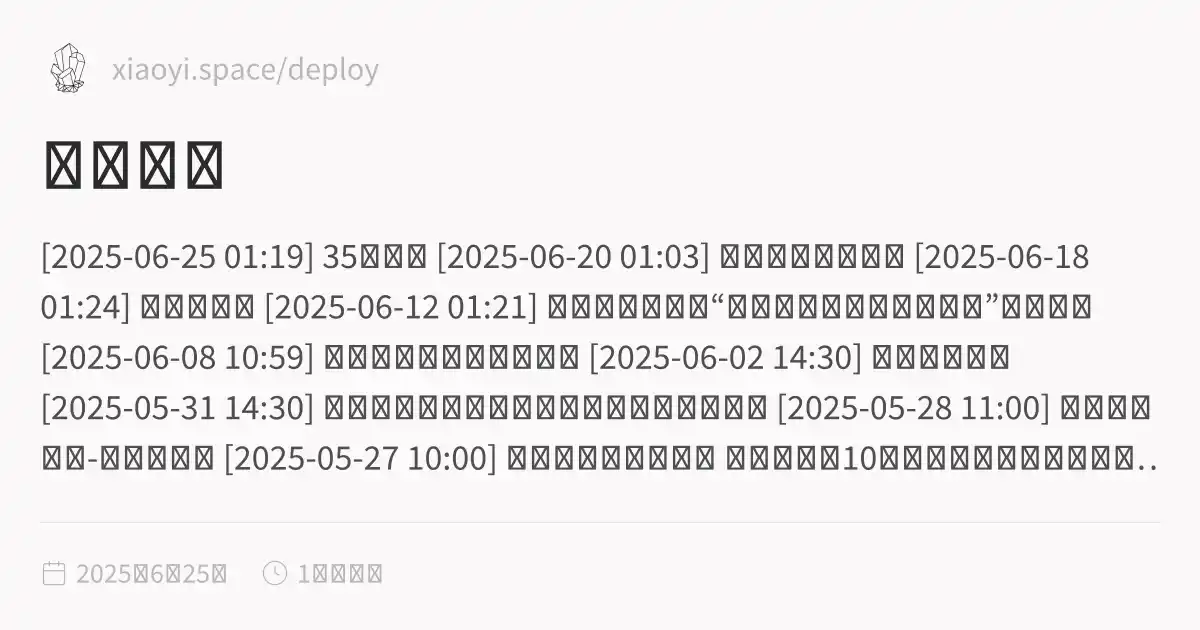
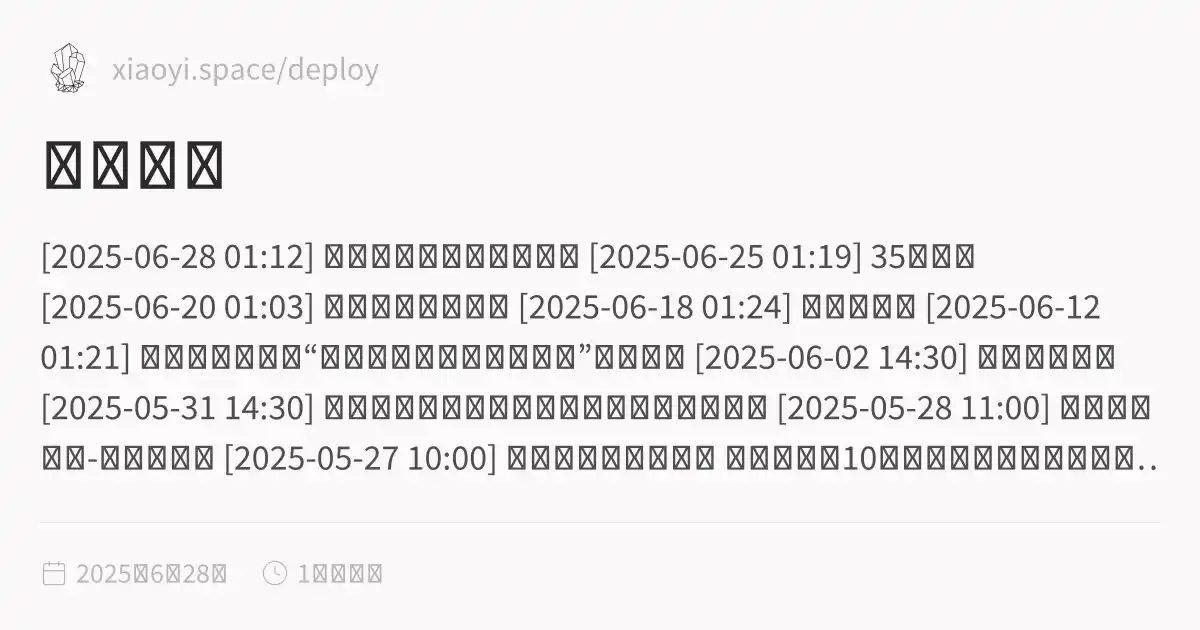
feature:update notes

Changed region(s): [[0.0308, 0.3619, 0.925, 0.5127], [0.0308, 0.5429, 0.925, 0.6032], [0.1542, 0.3921, 0.185, 0.4222]]

diff --git a/deploy/最近更新.html b/deploy/最近更新.html
@@ -1,5 +1,5 @@
 <!DOCTYPE html>
-<html lang="zh"><head><title>最近更新</title><meta charset="utf-8"/><link rel="preconnect" href="https://fonts.googleapis.com"/><link rel="preconnect" href="https://fonts.gstatic.com"/><link rel="stylesheet" href="https://fonts.googleapis.com/css2?family=Schibsted Grotesk:wght@400;700&amp;family=Source Sans Pro:ital,wght@0,400;0,600;1,400;1,600&amp;family=IBM Plex Mono:wght@400;600&amp;display=swap"/><link rel="preconnect" href="https://cdnjs.cloudflare.com" crossorigin="anonymous"/><meta name="viewport" content="width=device-width, initial-scale=1.0"/><meta name="og:site_name" content="xiaoyi.space"/><meta property="og:title" content="最近更新"/><meta property="og:type" content="website"/><meta name="twitter:card" content="summary_large_image"/><meta name="twitter:title" content="最近更新"/><meta name="twitter:description" content="[2025-06-25 01:19] 35岁来了 [2025-06-20 01:03] 一顿清淡工作晚餐 [2025-06-18 01:24] 想做一只猫 [2025-06-12 01:21] 你对现在流行的“女儿是父亲上辈子的情人”怎么看？ [2025-06-08 10:59] 骑摩托车是不是很不安全 [2025-06-02 14:30] 一个工作感悟 [2025-05-31 14:30] 摩托车安全驾驶需要具备的能力有些什么？ [2025-05-28 11:00] 摩托车旅行记-惠州观音山 [2025-05-27 10:00] 为什么搭建这个博客 只显示最近10条笔记，更多请查看目录。 ..."/><meta property="og:description" content="[2025-06-25 01:19] 35岁来了 [2025-06-20 01:03] 一顿清淡工作晚餐 [2025-06-18 01:24] 想做一只猫 [2025-06-12 01:21] 你对现在流行的“女儿是父亲上辈子的情人”怎么看？ [2025-06-08 10:59] 骑摩托车是不是很不安全 [2025-06-02 14:30] 一个工作感悟 [2025-05-31 14:30] 摩托车安全驾驶需要具备的能力有些什么？ [2025-05-28 11:00] 摩托车旅行记-惠州观音山 [2025-05-27 10:00] 为什么搭建这个博客 只显示最近10条笔记，更多请查看目录。 ..."/><meta property="og:image:alt" content="[2025-06-25 01:19] 35岁来了 [2025-06-20 01:03] 一顿清淡工作晚餐 [2025-06-18 01:24] 想做一只猫 [2025-06-12 01:21] 你对现在流行的“女儿是父亲上辈子的情人”怎么看？ [2025-06-08 10:59] 骑摩托车是不是很不安全 [2025-06-02 14:30] 一个工作感悟 [2025-05-31 14:30] 摩托车安全驾驶需要具备的能力有些什么？ [2025-05-28 11:00] 摩托车旅行记-惠州观音山 [2025-05-27 10:00] 为什么搭建这个博客 只显示最近10条笔记，更多请查看目录。 ..."/><meta property="twitter:domain" content="xiaoyi.space/deploy"/><meta property="og:url" content="https://xiaoyi.space/deploy/最近更新"/><meta property="twitter:url" content="https://xiaoyi.space/deploy/最近更新"/><link rel="icon" href="./static/icon.png"/><meta name="description" content="[2025-06-25 01:19] 35岁来了 [2025-06-20 01:03] 一顿清淡工作晚餐 [2025-06-18 01:24] 想做一只猫 [2025-06-12 01:21] 你对现在流行的“女儿是父亲上辈子的情人”怎么看？ [2025-06-08 10:59] 骑摩托车是不是很不安全 [2025-06-02 14:30] 一个工作感悟 [2025-05-31 14:30] 摩托车安全驾驶需要具备的能力有些什么？ [2025-05-28 11:00] 摩托车旅行记-惠州观音山 [2025-05-27 10:00] 为什么搭建这个博客 只显示最近10条笔记，更多请查看目录。 ..."/><meta name="generator" content="Quartz"/><link href="./index.css" rel="stylesheet" type="text/css" spa-preserve/><style>.expand-button {
+<html lang="zh"><head><title>最近更新</title><meta charset="utf-8"/><link rel="preconnect" href="https://fonts.googleapis.com"/><link rel="preconnect" href="https://fonts.gstatic.com"/><link rel="stylesheet" href="https://fonts.googleapis.com/css2?family=Schibsted Grotesk:wght@400;700&amp;family=Source Sans Pro:ital,wght@0,400;0,600;1,400;1,600&amp;family=IBM Plex Mono:wght@400;600&amp;display=swap"/><link rel="preconnect" href="https://cdnjs.cloudflare.com" crossorigin="anonymous"/><meta name="viewport" content="width=device-width, initial-scale=1.0"/><meta name="og:site_name" content="xiaoyi.space"/><meta property="og:title" content="最近更新"/><meta property="og:type" content="website"/><meta name="twitter:card" content="summary_large_image"/><meta name="twitter:title" content="最近更新"/><meta name="twitter:description" content="[2025-06-28 01:12] 骑摩托车是不是很不安全 [2025-06-25 01:19] 35岁来了 [2025-06-20 01:03] 一顿清淡工作晚餐 [2025-06-18 01:24] 想做一只猫 [2025-06-12 01:21] 你对现在流行的“女儿是父亲上辈子的情人”怎么看？ [2025-06-02 14:30] 一个工作感悟 [2025-05-31 14:30] 摩托车安全驾驶需要具备的能力有些什么？ [2025-05-28 11:00] 摩托车旅行记-惠州观音山 [2025-05-27 10:00] 为什么搭建这个博客 只显示最近10条笔记，更多请查看目录。 ..."/><meta property="og:description" content="[2025-06-28 01:12] 骑摩托车是不是很不安全 [2025-06-25 01:19] 35岁来了 [2025-06-20 01:03] 一顿清淡工作晚餐 [2025-06-18 01:24] 想做一只猫 [2025-06-12 01:21] 你对现在流行的“女儿是父亲上辈子的情人”怎么看？ [2025-06-02 14:30] 一个工作感悟 [2025-05-31 14:30] 摩托车安全驾驶需要具备的能力有些什么？ [2025-05-28 11:00] 摩托车旅行记-惠州观音山 [2025-05-27 10:00] 为什么搭建这个博客 只显示最近10条笔记，更多请查看目录。 ..."/><meta property="og:image:alt" content="[2025-06-28 01:12] 骑摩托车是不是很不安全 [2025-06-25 01:19] 35岁来了 [2025-06-20 01:03] 一顿清淡工作晚餐 [2025-06-18 01:24] 想做一只猫 [2025-06-12 01:21] 你对现在流行的“女儿是父亲上辈子的情人”怎么看？ [2025-06-02 14:30] 一个工作感悟 [2025-05-31 14:30] 摩托车安全驾驶需要具备的能力有些什么？ [2025-05-28 11:00] 摩托车旅行记-惠州观音山 [2025-05-27 10:00] 为什么搭建这个博客 只显示最近10条笔记，更多请查看目录。 ..."/><meta property="twitter:domain" content="xiaoyi.space/deploy"/><meta property="og:url" content="https://xiaoyi.space/deploy/最近更新"/><meta property="twitter:url" content="https://xiaoyi.space/deploy/最近更新"/><link rel="icon" href="./static/icon.png"/><meta name="description" content="[2025-06-28 01:12] 骑摩托车是不是很不安全 [2025-06-25 01:19] 35岁来了 [2025-06-20 01:03] 一顿清淡工作晚餐 [2025-06-18 01:24] 想做一只猫 [2025-06-12 01:21] 你对现在流行的“女儿是父亲上辈子的情人”怎么看？ [2025-06-02 14:30] 一个工作感悟 [2025-05-31 14:30] 摩托车安全驾驶需要具备的能力有些什么？ [2025-05-28 11:00] 摩托车旅行记-惠州观音山 [2025-05-27 10:00] 为什么搭建这个博客 只显示最近10条笔记，更多请查看目录。 ..."/><meta name="generator" content="Quartz"/><link href="./index.css" rel="stylesheet" type="text/css" spa-preserve/><style>.expand-button {
   position: absolute;
   display: flex;
   float: right;
@@ -116,12 +116,12 @@ pre:hover > .expand-button {
   padding: 0 12px;
   font-size: 14px;
 }
[2 lines of base64/hex data omitted]
+<li><strong>[2025-06-28 01:12]</strong> <a href="./骑摩托车是不是很不安全" class="internal alias" data-slug="骑摩托车是不是很不安全">骑摩托车是不是很不安全</a></li>
 <li><strong>[2025-06-25 01:19]</strong> <a href="./35岁来了" class="internal alias" data-slug="35岁来了">35岁来了</a></li>
 <li><strong>[2025-06-20 01:03]</strong> <a href="./一顿清淡工作晚餐" class="internal alias" data-slug="一顿清淡工作晚餐">一顿清淡工作晚餐</a></li>
 <li><strong>[2025-06-18 01:24]</strong> <a href="./想做一只猫" class="internal alias" data-slug="想做一只猫">想做一只猫</a></li>
 <li><strong>[2025-06-12 01:21]</strong> <a href="./你对现在流行的“女儿是父亲上辈子的情人”怎么看？" class="internal alias" data-slug="你对现在流行的“女儿是父亲上辈子的情人”怎么看？">你对现在流行的“女儿是父亲上辈子的情人”怎么看？</a></li>
-<li><strong>[2025-06-08 10:59]</strong> <a href="./骑摩托车是不是很不安全" class="internal alias" data-slug="骑摩托车是不是很不安全">骑摩托车是不是很不安全</a></li>
 <li><strong>[2025-06-02 14:30]</strong> <a href="./一个工作感悟" class="internal alias" data-slug="一个工作感悟">一个工作感悟</a></li>
 <li><strong>[2025-05-31 14:30]</strong> <a href="./摩托车安全驾驶需要具备的能力有些什么？" class="internal alias" data-slug="摩托车安全驾驶需要具备的能力有些什么？">摩托车安全驾驶需要具备的能力有些什么？</a></li>
 <li><strong>[2025-05-28 11:00]</strong> <a href="./摩托车旅行记-惠州观音山" class="internal alias" data-slug="摩托车旅行记-惠州观音山">摩托车旅行记-惠州观音山</a></li>

diff --git a/deploy/index.html b/deploy/index.html
@@ -117,11 +117,11 @@ pre:hover > .expand-button {
   font-size: 14px;
 }
[1 lines of base64/hex data omitted]
+<li><strong>[2025-06-28 01:12]</strong> <a href="./最近更新/.././骑摩托车是不是很不安全" class="internal alias" data-slug="骑摩托车是不是很不安全">骑摩托车是不是很不安全</a></li>
 <li><strong>[2025-06-25 01:19]</strong> <a href="./最近更新/.././35岁来了" class="internal alias" data-slug="35岁来了">35岁来了</a></li>
 <li><strong>[2025-06-20 01:03]</strong> <a href="./最近更新/.././一顿清淡工作晚餐" class="internal alias" data-slug="一顿清淡工作晚餐">一顿清淡工作晚餐</a></li>
 <li><strong>[2025-06-18 01:24]</strong> <a href="./最近更新/.././想做一只猫" class="internal alias" data-slug="想做一只猫">想做一只猫</a></li>
 <li><strong>[2025-06-12 01:21]</strong> <a href="./最近更新/.././你对现在流行的“女儿是父亲上辈子的情人”怎么看？" class="internal alias" data-slug="你对现在流行的“女儿是父亲上辈子的情人”怎么看？">你对现在流行的“女儿是父亲上辈子的情人”怎么看？</a></li>
-<li><strong>[2025-06-08 10:59]</strong> <a href="./最近更新/.././骑摩托车是不是很不安全" class="internal alias" data-slug="骑摩托车是不是很不安全">骑摩托车是不是很不安全</a></li>
 <li><strong>[2025-06-02 14:30]</strong> <a href="./最近更新/.././一个工作感悟" class="internal alias" data-slug="一个工作感悟">一个工作感悟</a></li>
 <li><strong>[2025-05-31 14:30]</strong> <a href="./最近更新/.././摩托车安全驾驶需要具备的能力有些什么？" class="internal alias" data-slug="摩托车安全驾驶需要具备的能力有些什么？">摩托车安全驾驶需要具备的能力有些什么？</a></li>
 <li><strong>[2025-05-28 11:00]</strong> <a href="./最近更新/.././摩托车旅行记-惠州观音山" class="internal alias" data-slug="摩托车旅行记-惠州观音山">摩托车旅行记-惠州观音山</a></li>

diff --git a/deploy/骑摩托车是不是很不安全.html b/deploy/骑摩托车是不是很不安全.html
@@ -127,7 +127,7 @@ pre:hover > .expand-button {
 <h1 id="我身边人的例子">我身边人的例子<a role="anchor" aria-hidden="true" tabindex="-1" data-no-popover="true" href="#我身边人的例子" class="internal"><svg width="18" height="18" viewBox="0 0 24 24" fill="none" stroke="currentColor" stroke-width="2" stroke-linecap="round" stroke-linejoin="round"><path d="M10 13a5 5 0 0 0 7.54.54l3-3a5 5 0 0 0-7.07-7.07l-1.72 1.71"></path><path d="M14 11a5 5 0 0 0-7.54-.54l-3 3a5 5 0 0 0 7.07 7.07l1.71-1.71"></path></svg></a></h1>
 <p>我身边有不少骑摩托车跑了西藏，跑了新疆，跑了东北，甚至环了中国一圈，乃至于到了国外旅行的车友，里程数是要用几十万公里来计的，恶劣路况下倒车这种事情避免不了，但是没有谁出过什么严重事故。都是一群有家庭有事业的人，知道惜命，知道打磨好技术检查好车况，在路上谨慎驾驶。</p>
 <h1 id="整个世界的例子">整个世界的例子<a role="anchor" aria-hidden="true" tabindex="-1" data-no-popover="true" href="#整个世界的例子" class="internal"><svg width="18" height="18" viewBox="0 0 24 24" fill="none" stroke="currentColor" stroke-width="2" stroke-linecap="round" stroke-linejoin="round"><path d="M10 13a5 5 0 0 0 7.54.54l3-3a5 5 0 0 0-7.07-7.07l-1.72 1.71"></path><path d="M14 11a5 5 0 0 0-7.54-.54l-3 3a5 5 0 0 0 7.07 7.07l1.71-1.71"></path></svg></a></h1>
-<p>其实放眼全世界，比较正常的国家里面，也只有中国内地对的舆论摩托车带着强烈的偏见，同时道路交通规则也对摩托车充满歧视。这些偏见和歧视包括「摩托车上路就是炸街，在城区行驶有安全隐患，还扰民」，「摩托车就是不能上高速， 因为上了高速肯定事故满天飞」。但实际上，世界上绝大部分国家和地区，就是把摩托车当成一种普通的机动车来看的，说白了，这就是一辆两个轮子的车，最多就是按照排量和功率对通行规则作一些划分，以及设置对应的驾考难度。全世界那么多地方的人都骑着摩托车为自己的生活提供便利带来乐趣，没见哪儿因为允许摩托车上路天天出事，也没见当地人就因此不能休息了。内地以外的地方，譬如香港，澳门，台湾，日本，美国，摩托车都可以正常上路，甚至有的地方汽车不给走还允许摩托车走，人家交通环境不也好好的么。甚至，有汽车的人选择了开摩托车，释放了宝贵的道路资源，交通拥堵情况还有改善。</p>
+<p>其实放眼全世界，比较正常的国家里面，也只有中国内地的舆论对摩托车带着强烈的偏见，同时道路交通规则也对摩托车充满歧视。这些偏见和歧视包括「摩托车上路就是炸街，在城区行驶有安全隐患，还扰民」，「摩托车就是不能上高速， 因为上了高速肯定事故满天飞」， 「摩托车就应该跑在最右侧车道上」。但实际上，世界上绝大部分国家和地区，就是把摩托车当成一种普通的机动车来看的，说白了，这就是一辆两个轮子的车，最多就是按照排量和功率对通行规则作一些划分，以及设置对应的驾考难度。全世界那么多地方的人都骑着摩托车为自己的生活提供便利带来乐趣，没见哪儿因为允许摩托车上路天天出事，也没见当地人就因此不能休息了。内地以外的地方，譬如香港，澳门，台湾，日本，美国，摩托车都可以正常上路，甚至有的地方汽车不给走还允许摩托车走，人家交通环境不也好好的么。甚至，有汽车的人选择了开摩托车，释放了宝贵的道路资源，交通拥堵情况还有改善。</p>
 <p>实际上，国内也一样。哪怕国内很多地方都不欢迎摩托车，但是说实话，国内不禁摩的城市也多了去了，允许摩托车上高速的省份也不少，很多人的臆想完全站不住脚。大中型城市如西安、重庆，摩托车就是可以正常通行的，高速公路如北京、湖北、贵州、新疆，摩托车也是可以正常领卡上的，也没见什么事故频发。也别说什么我们这里车流大路况复杂横风多，再大能大得过京畿交通枢纽，再复杂复杂得过贵州的山路高速么？再大的横风大得过新疆的戈壁----那可是能把汽车吹得发飘的。</p>
 <h1 id="为什么怎么做到的">为什么，怎么做到的<a role="anchor" aria-hidden="true" tabindex="-1" data-no-popover="true" href="#为什么怎么做到的" class="internal"><svg width="18" height="18" viewBox="0 0 24 24" fill="none" stroke="currentColor" stroke-width="2" stroke-linecap="round" stroke-linejoin="round"><path d="M10 13a5 5 0 0 0 7.54.54l3-3a5 5 0 0 0-7.07-7.07l-1.72 1.71"></path><path d="M14 11a5 5 0 0 0-7.54-.54l-3 3a5 5 0 0 0 7.07 7.07l1.71-1.71"></path></svg></a></h1>
 <p>可以参见这一篇回答<a href="./摩托车安全驾驶需要具备的能力有些什么？" class="internal alias" data-slug="摩托车安全驾驶需要具备的能力有些什么？">摩托车安全驾驶需要具备的能力有些什么？</a>。
